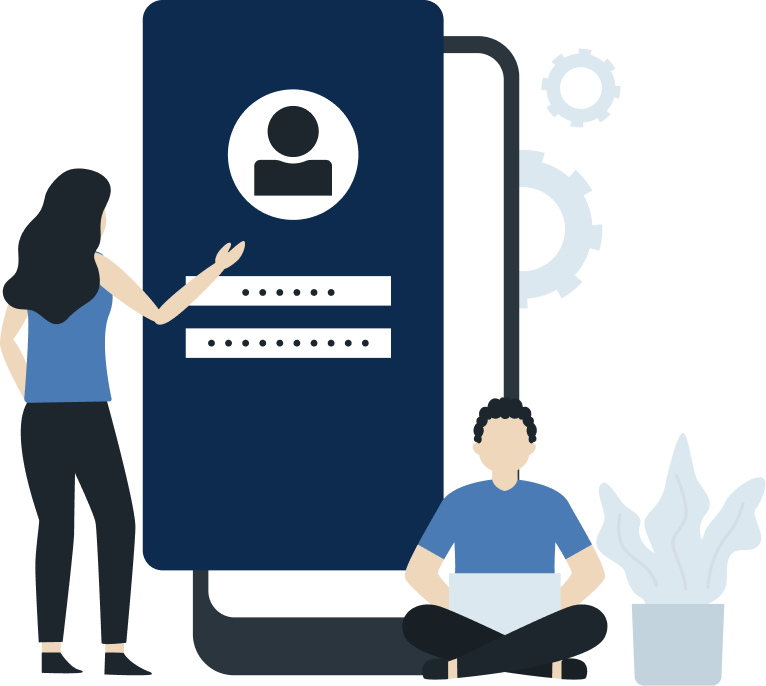
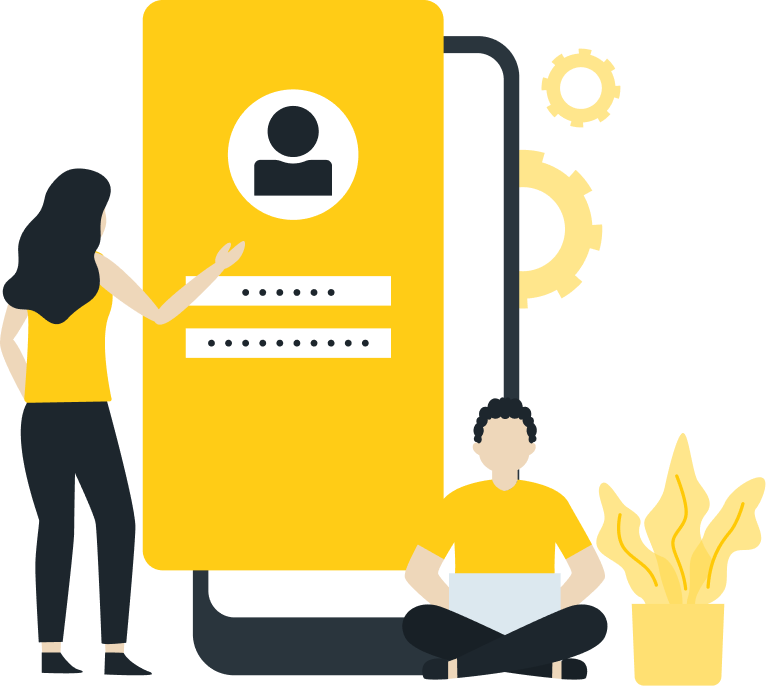
Change splash and base url

diff --git a/lib/Helpers/app_field.dart b/lib/Helpers/app_field.dart
@@ -76,8 +76,8 @@ class _CustomAppFormFieldState extends State<CustomAppFormField> {
       decoration: BoxDecoration(
           border: widget.border == false
               ? null
-              : Border.all(color: AppTheme.appColor),
-          color: widget.bgcolor ?? Color(0xffF1F4FF),
+              : Border.all(color:Color(0xffFDF7E3)),
+          color: widget.bgcolor ?? Color(0xffFDF7E3),
           borderRadius: BorderRadius.circular(10)),
       child: TextField(
         controller: widget.controller,
@@ -171,8 +171,8 @@ class _CustomAppPasswordfieldState extends State<CustomAppPasswordfield> {
         height: 60,
         width: MediaQuery.of(context).size.width,
         decoration: BoxDecoration(
-            border: Border.all(color: AppTheme.appColor),
-            color: Color(0xffF1F4FF),
+            border: Border.all(color: Color(0xffFDF7E3)),
+            color: Color(0xffFDF7E3),
             borderRadius: BorderRadius.circular(10)),
         child: TextFormField(
           controller: widget.controller,

diff --git a/lib/Views/BookingScreen/booking_status.dart b/lib/Views/BookingScreen/booking_status.dart
@@ -81,7 +81,7 @@ class _BookingStatusState extends State<BookingStatus> {
     try {
       final response = await dio.get(
           path:
-              "https://api.coworkatnastp.com/api/booking-schedule/search?query=$query");
+              "https://api.bridgepk.com/api/booking-schedule/search?query=$query");
       List<dynamic> schedules = response.data['results'];
       setState(() {
         _bookings =
@@ -627,7 +627,7 @@ class _BookingStatusState extends State<BookingStatus> {
     setState(() => _isLoading = true);
     try {
       final response = await dio.delete(
-          path: "https://api.coworkatnastp.com/api/booking-schedule/$id");
+          path: "https://api.bridgepk.com/api/booking-schedule/$id");
       if (response.statusCode == 200) {
         ToastHelper.displaySuccessMotionToast(
             context: context, msg: "Deleted successfully!");

diff --git a/lib/Helpers/toaster.dart b/lib/Helpers/toaster.dart
@@ -14,7 +14,7 @@ class ToastHelper {
 
   static void displaySuccessMotionToast({required BuildContext context, msg}) {
     MotionToast toast = MotionToast.success(
-      animationType: AnimationType.slideInFromLeft,
+      animationType: AnimationType.slideInFromTop,
       position: MotionToastPosition.top,
       description: ConstrainedBox(
         constraints: BoxConstraints(
@@ -35,7 +35,7 @@ class ToastHelper {
 
   static void displayErrorMotionToast({required BuildContext context, msg}) {
     MotionToast toast = MotionToast.error(
-      animationType: AnimationType.slideInFromLeft,
+      animationType: AnimationType.slideInFromTop,
       position: MotionToastPosition.top,
       description: ConstrainedBox(
         constraints: BoxConstraints(

diff --git a/lib/Helpers/app_theme.dart b/lib/Helpers/app_theme.dart
@@ -3,8 +3,9 @@ import 'package:flutter/material.dart';
 class AppTheme {
   AppTheme._();
 
-  static Color txtColor = const Color(0xff6B6B6B);
-  static Color appColor = const Color(0xff0D2B4E);
+  static Color txtColor = const Color.fromARGB(255, 50, 45, 45);
+  // static Color txtColor = const Color(0xff6B6B6B);
+  static Color appColor = const Color(0xffFFCC16);
   static Color white = Color(0xffFFFFFF);
   static Color black= Color(0xff000000);
   static Color borderCOlor= Color(0xffD0D0D0);

diff --git a/lib/Views/Auth Screens/sign_in.dart b/lib/Views/Auth Screens/sign_in.dart
@@ -107,7 +107,7 @@ class _SignInScreenState extends State<SignInScreen> {
                         image: AssetImage("assets/images/loginCenter.png"),
                         height: 200,
                       ),
-                      SizedBox(height: 30),
+                      SizedBox(height: 50),
 
                       CustomAppFormField(
                         texthint: "Email",

diff --git a/lib/config/dio/interceptor.dart b/lib/config/dio/interceptor.dart
@@ -65,7 +65,7 @@ class AppDioInterceptor extends Interceptor {
       options.headers.addAll({RequestHeader.authorization: "Bearer $token",
       });
     }
-    String branch = "cowork-nastp"; // Set your default branch
+    String branch = "bridge"; // Set your default branch
 
     // Add the 'branch' header
     options.headers.addAll({"branch": branch});

diff --git a/lib/config/keys/urls.dart b/lib/config/keys/urls.dart
@@ -1,5 +1,5 @@
 class AppUrls {
-  static const String baseUrl = "https://api.coworkatnastp.com/api/";
+  static const String baseUrl = "https://api.bridgepk.com/api/";
   static const String logIn = "branch/login";
   static const String logOut= "logout";
   static const String availRooms= "booking-schedule/availability-rooms";
